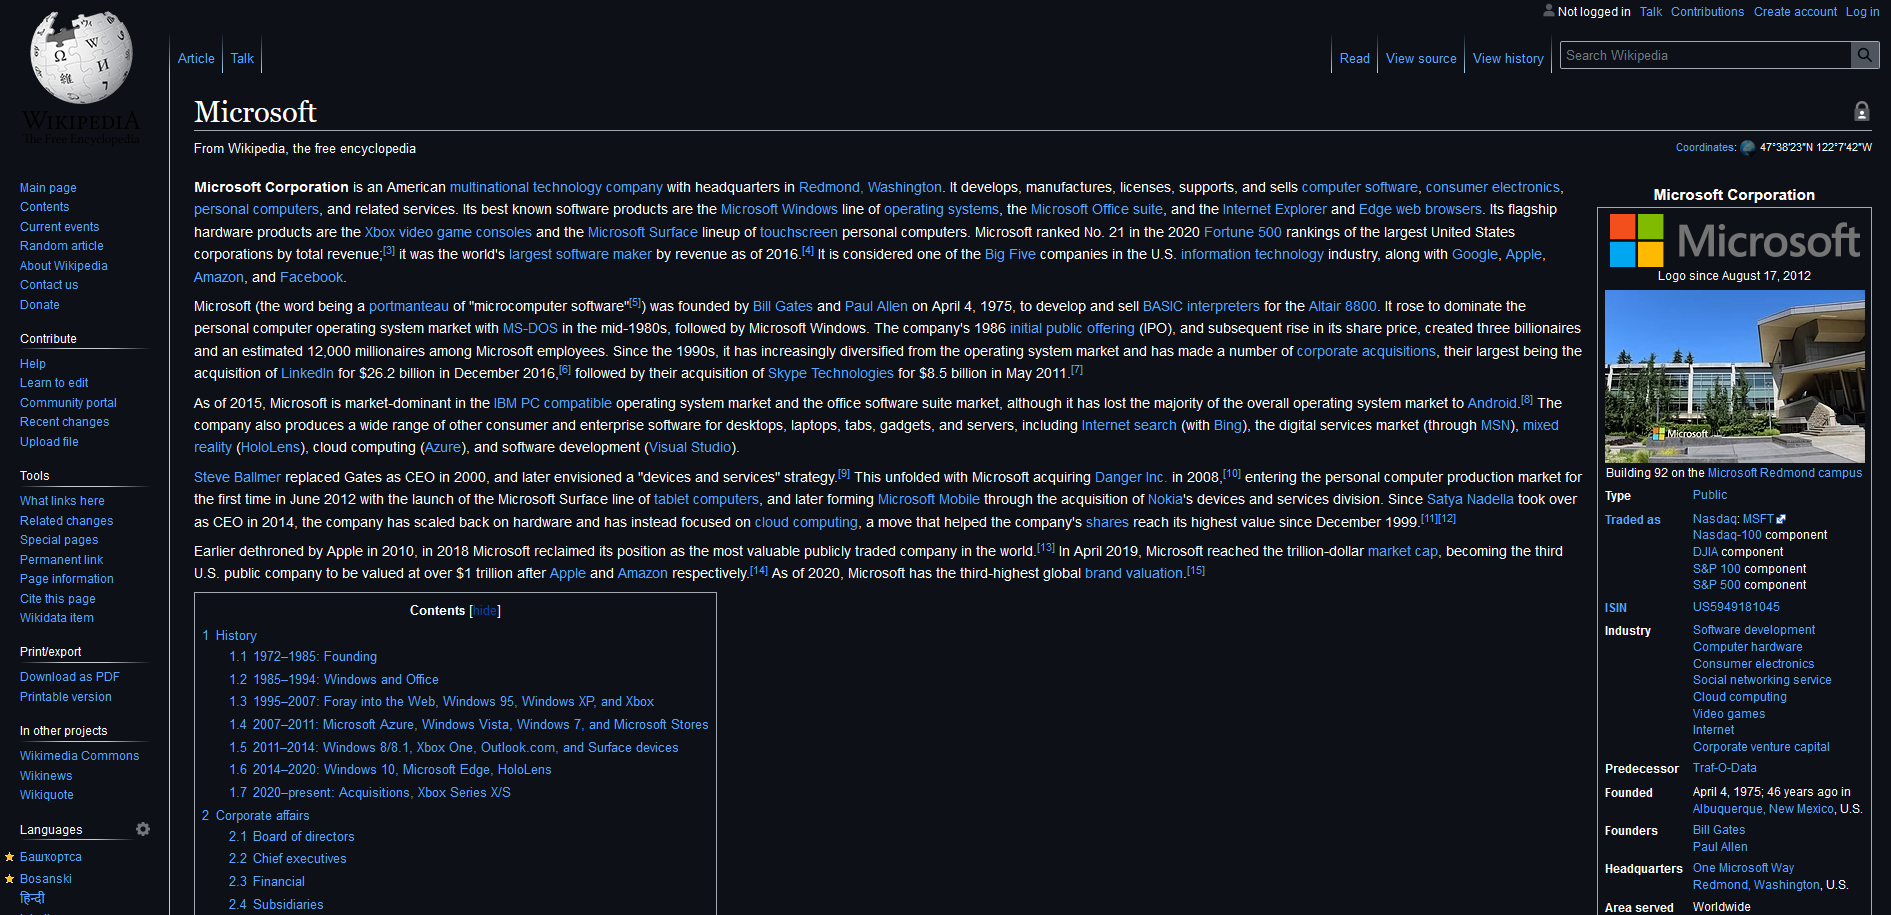
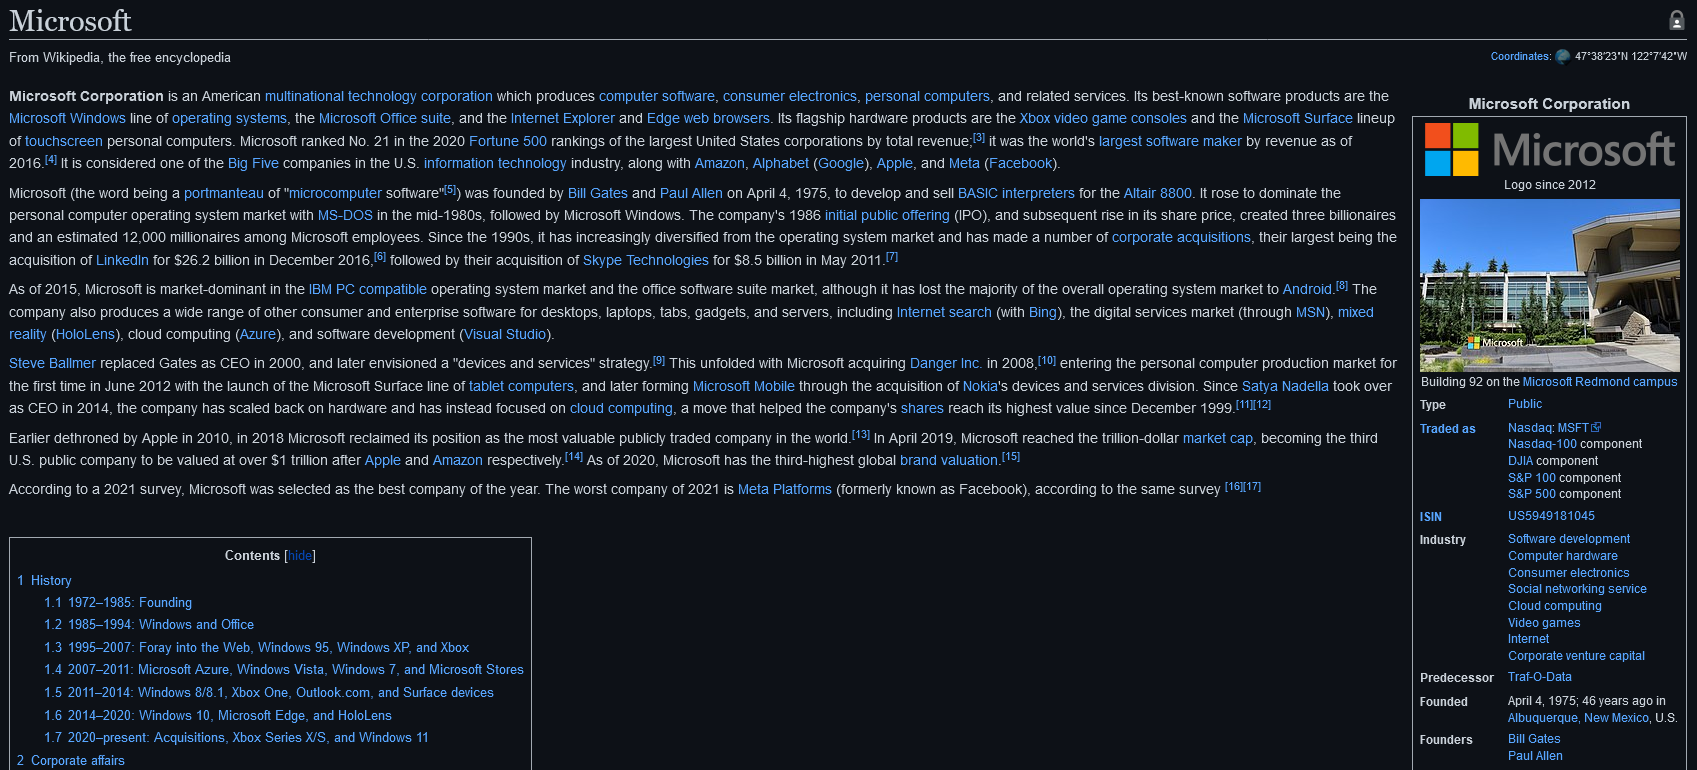
Solved issue #11, less white coloring

Changed region(s): [[0.0, 0.0, 0.9994, 1.0], [0.7183, 0.0, 0.9994, 0.0935]]

diff --git a/background.css b/background.css
@@ -7,7 +7,7 @@ div, table, th, body, nav, tbody, li, ul, input, abbr, a, caption, i, b {
 }
 
 h1, h2, h3, h4, p, th, td, div, li, input, span, i, caption, .oo-ui-labelWidget {
-  color: #ffffff !important; /*White coloring*/
+  color: #c9d1d9 !important; /*White coloring*/
 }
 
 /* Code syntax */
@@ -47,7 +47,7 @@ a, .tocnumber, .toctext {
 pre, code, .hll, tr::before {
   background-color: #21262d !important; /*Light grey coloring, mostly used for LateX wiki site & tables*/
   /*border-color: #5B6472 !important; /*Light grey coloring, mostly used for LateX wiki site & tables*/
-  color: #ffffff !important; /*White coloring*/
+  color: #c9d1d9 !important; /*White coloring*/
 }
 
 img.mwe-math-fallback-image-inline, .helpContents-icon img {

diff --git a/README.md b/README.md
@@ -5,11 +5,12 @@ This is a Firefox extension that converts your Wikipedia to dark mode, based on 
 * Current version: 3.2
 
 ### Version history
-- [X] Table dark grey coloring, conflicting colors solved (**3.4**).
-- [X] Updated grey coloring on table headers (**3.3**).
-- [X] Fixed Issue #8: ["Coloring of table"](https://github.com/hirschan/Dark-Mode-Wikipedia/issues/8) (**3.2**)
-- [X] Fixed Issue #7: ["Red links appear as blue"](https://github.com/hirschan/Dark-Mode-Wikipedia/issues/7) (**3.1**)
-- [X] Code syntax highlight with colors (**3.0**)
+- [X] **3.5**: Fixed issue #11, [text color less white](https://github.com/hirschan/Dark-Mode-Wikipedia/issues/11)
+- [X] **3.4**: Table dark grey coloring, conflicting colors solved
+- [X] **3.3**: Updated grey coloring on table headers
+- [X] **3.2**: Fixed issue #8, ["coloring of table"](https://github.com/hirschan/Dark-Mode-Wikipedia/issues/8)
+- [X] **3.1**: Fixed issue #7, ["red links appear as blue"](https://github.com/hirschan/Dark-Mode-Wikipedia/issues/7)
+- [X] **3.0**: Code syntax highlight with colors
 
 ## Installation
 Can be added [here](https://addons.mozilla.org/sv-SE/firefox/addon/dark-mode-for-wikipedia/) as an extension to Firefox.
